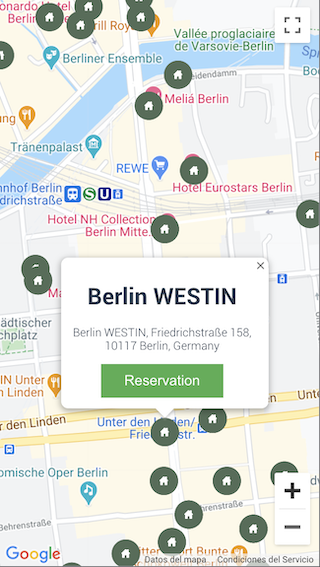
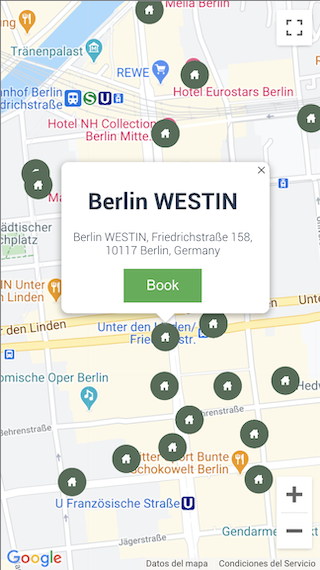
fix a typo

diff --git a/frontend/src/components/GoogleMapMarker.vue b/frontend/src/components/GoogleMapMarker.vue
@@ -3,7 +3,7 @@
     <div :id="id">
       <h1>{{ marker.title }}</h1>
       <p>{{ marker.address }}</p>
-      <button class="button">Reservation</button>
+      <button class="button">Book</button>
     </div>
   </div>
 </template>
